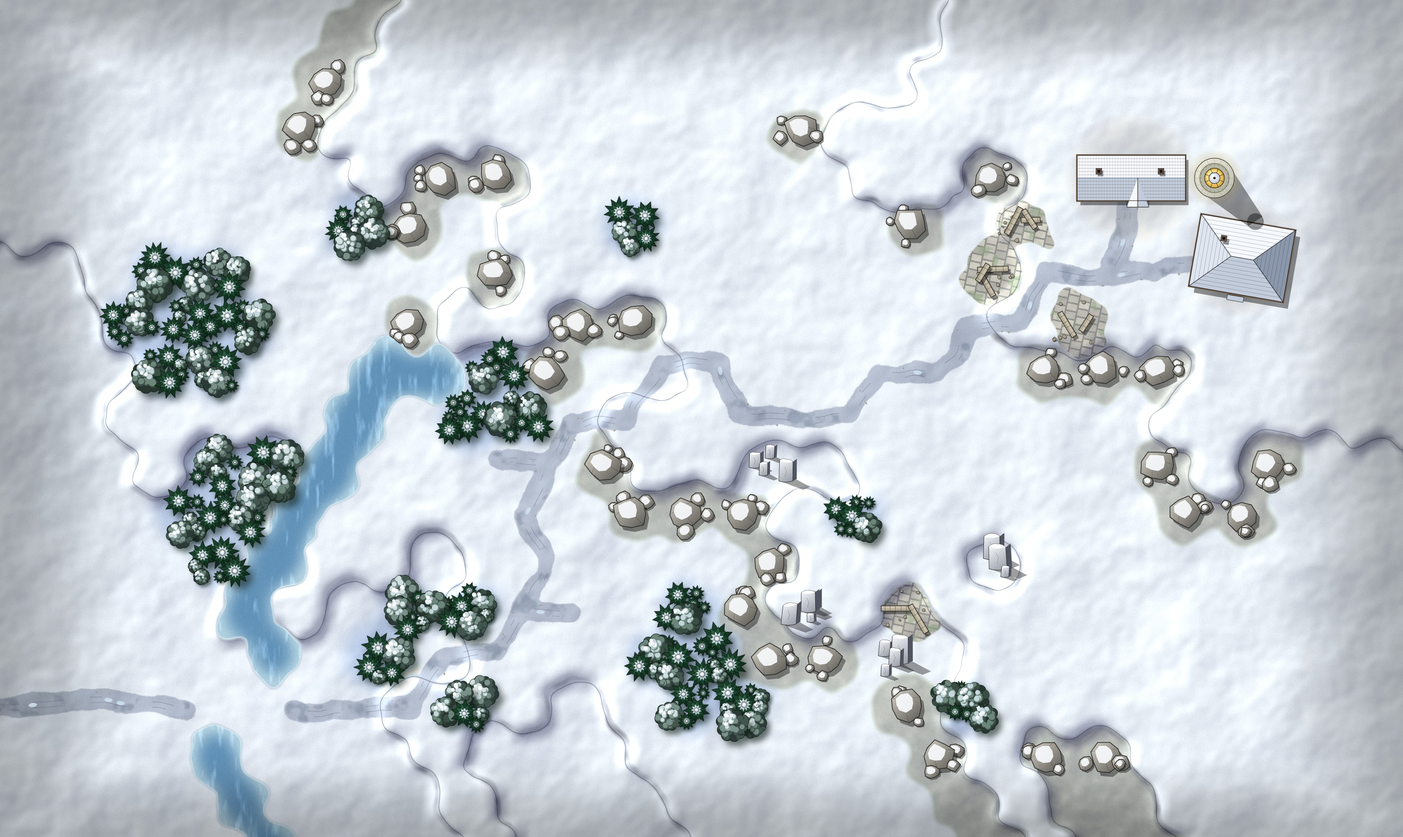
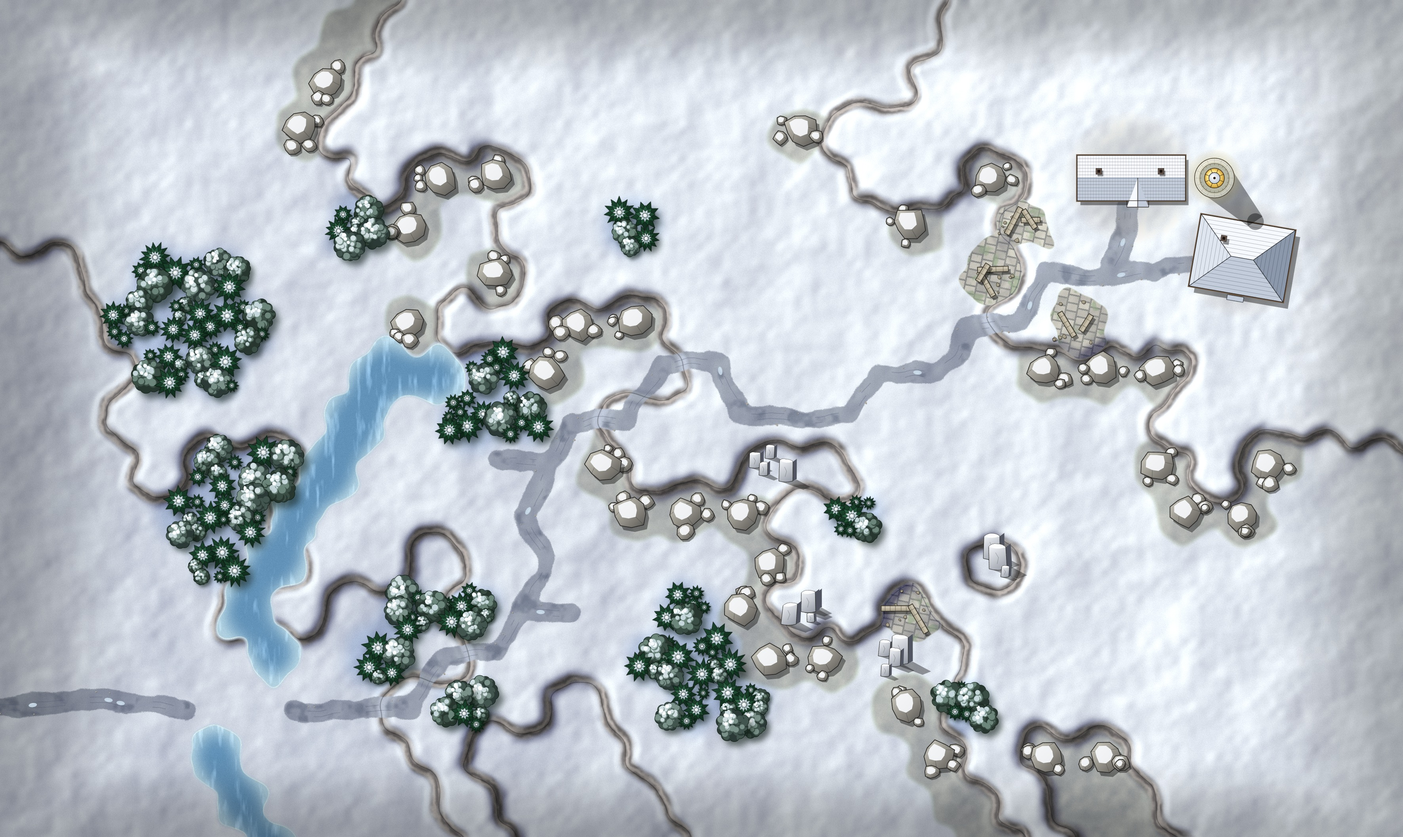
Snow painter: show terraces as rock ledges; repaint Skyreach

diff --git a/src/paint.js b/src/paint.js
@@ -354,10 +354,12 @@ export function paintBackdrop(map, { hexPx = 140, seed = 7, biome = 'meadow' } =
       }
       // Hills: light from the north-west, bare earth and rock where it gets steep.
       const gx = S(fGx), gy = S(fGy), steep = Math.hypot(gx, gy);
-      t = sstep(1.5, 2.9, steep) * (1 - sstep(0.4, 0.6, ruins));
+      // (Under snow even a one-level rise shows its rock: white on white hides the shape of the land otherwise.)
+      t = (snow ? sstep(0.95, 2.0, steep) : sstep(1.5, 2.9, steep)) * (1 - sstep(0.4, 0.6, ruins));
+      const crag = t;
       if (t > 0) {
         const strata = 0.5 + 0.5 * Math.sin(S(fH) * 13 + n2 * 5);
-        let er = snow ? 128 - 36 * strata : 132 - 34 * strata, eg = snow ? 130 - 34 * strata : 112 - 28 * strata, eb = snow ? 138 - 30 * strata : 86 - 22 * strata;
+        let er = snow ? 158 - 56 * strata : 132 - 34 * strata, eg = snow ? 152 - 54 * strata : 112 - 28 * strata, eb = snow ? 148 - 50 * strata : 86 - 22 * strata;
         if (desert) { er = 188 - 58 * strata; eg = 102 - 40 * strata; eb = 66 - 26 * strata; }      // banded red rock
         if (cave) { er = 92 - 34 * strata; eg = 82 - 30 * strata; eb = 76 - 24 * strata; }
         r += (er - r) * t; g += (eg - g) * t; bl += (eb - bl) * t;
@@ -368,20 +370,26 @@ export function paintBackdrop(map, { hexPx = 140, seed = 7, biome = 'meadow' } =
         t = sstep(0.34, 0.6, road + (n2 - 0.5) * 0.55 + (hash(X, Y, seed + 41) - 0.5) * 0.16);
         if (t > 0) {
           const mud = sstep(0.56, 0.8, fbm(X / (s * 0.45), Y / (s * 0.45), seed + 42, 3)) * sstep(0.5, 0.9, road) * 0.8;
-          const e0 = snow ? [176, 186, 202] : alien ? [176, 178, 182] : desert ? [238, 216, 172] : cave ? [118, 108, 96] : [198, 170, 122];
-          const e1 = snow ? [136, 148, 168] : alien ? [112, 114, 122] : desert ? [196, 166, 120] : cave ? [70, 64, 58] : [126, 100, 66];
+          const e0 = snow ? [156, 164, 178] : alien ? [176, 178, 182] : desert ? [238, 216, 172] : cave ? [118, 108, 96] : [198, 170, 122];
+          const e1 = snow ? [112, 122, 140] : alien ? [112, 114, 122] : desert ? [196, 166, 120] : cave ? [70, 64, 58] : [126, 100, 66];
           const k = t * 0.94;
           r += (e0[0] + (e1[0] - e0[0]) * mud - r) * k; g += (e0[1] + (e1[1] - e0[1]) * mud - g) * k; bl += (e0[2] + (e1[2] - e0[2]) * mud - bl) * k;
         }
       }
       let shade = 1 + clamp((gx + gy) * 0.16, -0.3, 0.3);
+      if (snow) {
+        // Snowfields need more help: light that still picks out slopes running across it, every
+        // slope dimmed a little whichever way it faces, and the heights brighter than the valley.
+        shade = 1 + clamp(gx * 0.24 + gy * 0.13, -0.36, 0.3);
+        shade *= (1 - 0.2 * sstep(0.35, 1.5, steep) * (1 - crag)) * (0.9 + 0.035 * elev);
+      }
       // A fine contour line where the ground crosses each half level, so slopes read as terraces.
       if (steep > 0.55) {
         const hgt = S(fH) - 0.5, off = Math.abs(hgt - Math.round(hgt));
         shade *= 1 - 0.3 * (1 - sstep(0, (steep / s) * 2.2, off));
       }
       r *= shade; g *= shade; bl *= shade;
-      if (snow && shade < 1) bl += (1 - shade) * 46;       // snow shadows lean blue
+      if (snow && shade < 1) bl += (1 - shade) * 46 * (1 - crag);       // snow shadows lean blue (bare rock stays grey)
 
       // Water: muddy bank, foam at the edge, deeper blue toward the middle.
       if (water > 0.5) {
